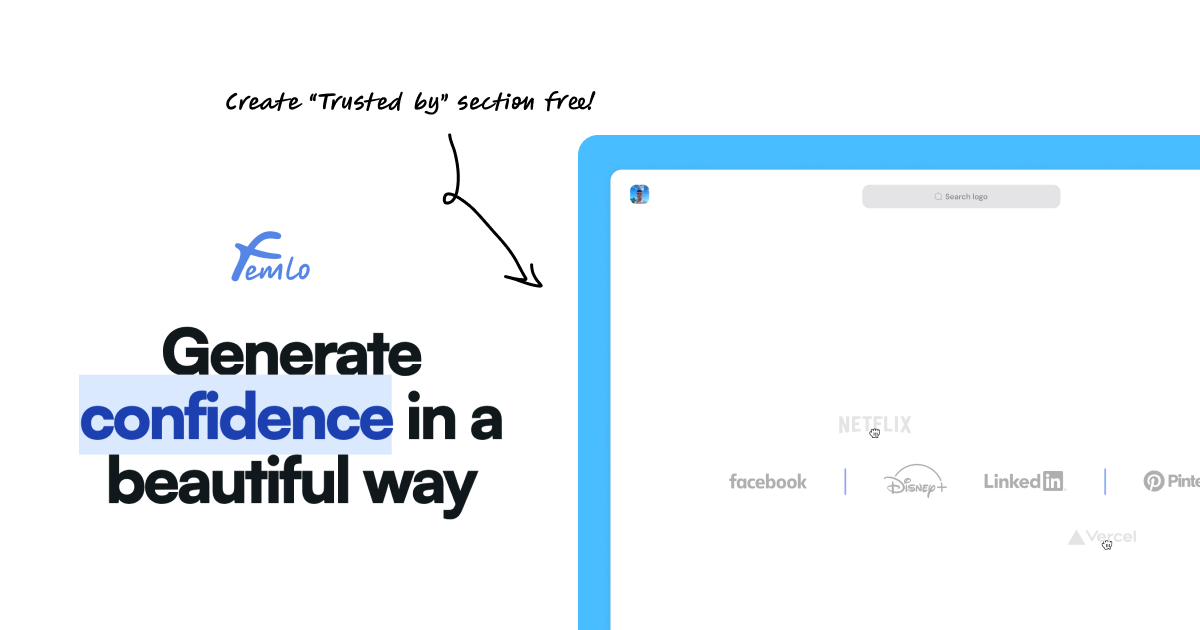
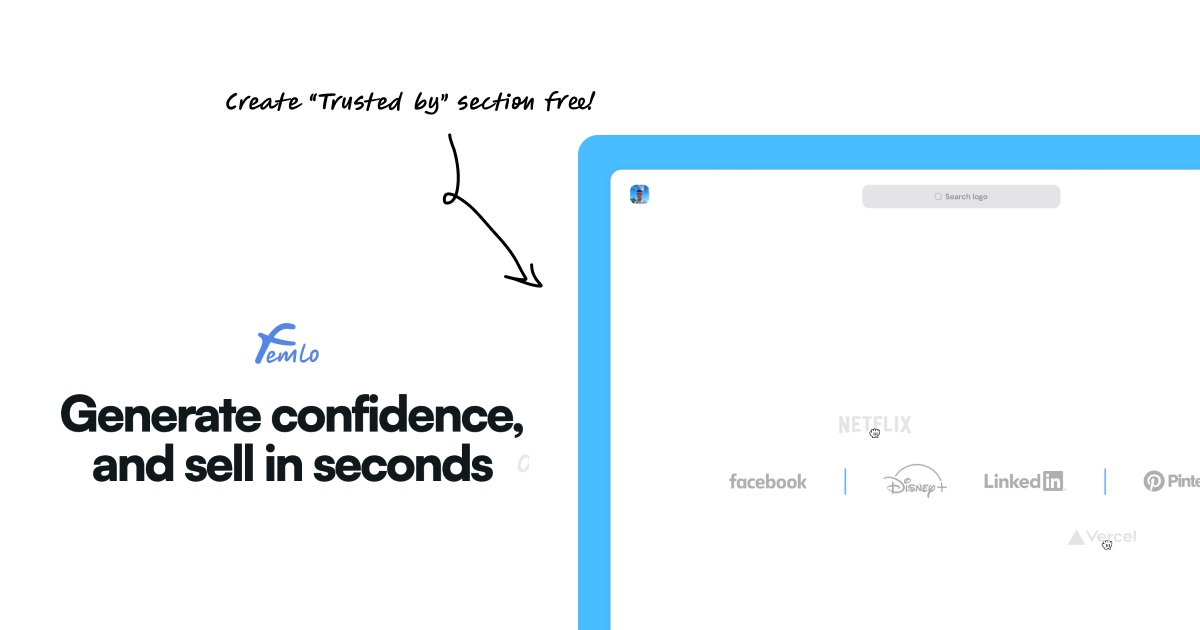
style: changing copy

Changed region(s): [[0.0308, 0.5127, 0.4317, 0.8444], [0.185, 0.3619, 0.2775, 0.4524]]

diff --git a/src/pages/_app.tsx b/src/pages/_app.tsx
@@ -54,32 +54,19 @@ const MyApp: AppType<{ session: Session | null }> = ({
       <Providers>
         <Head>
           <link rel="icon" href="/favicon.png" />
-          <title>Femlo - Generate confidence in a beautiful way</title>
+          <title>
+            Femlo - Generate confidence, Generate more sells in a beautiful way
+          </title>
 
-          {/* Open Graph meta tags */}
-          <meta property="og:type" content="website" />
-          <meta property="og:title" content="Femlo | Your Tagline Here" />
-          <meta
-            property="og:description"
-            content="Femlo is a platform that helps you..."
-          />
-          <meta property="og:url" content="https://www.femlo.cfd/" />
           <meta
             property="og:image"
-            content="https://res-console.cloudinary.com/dayloxa2a/media_explorer_thumbnails/892e915c3fe24a47c66af5b3f8a32da8/detailed"
+            content="https://res.cloudinary.com/dayloxa2a/image/upload/v1724163090/roynlbztxkqcwk9mvssr.png"
           />
           <meta property="og:image:alt" content="Femlo preview image" />
 
-          {/* Twitter Card meta tags */}
-          <meta name="twitter:card" content="summary_large_image" />
-          <meta name="twitter:title" content="Femlo | Your Tagline Here" />
-          <meta
-            name="twitter:description"
-            content="Femlo is a platform that helps you..."
-          />
           <meta
             name="twitter:image"
-            content="https://res-console.cloudinary.com/dayloxa2a/media_explorer_thumbnails/892e915c3fe24a47c66af5b3f8a32da8/detailed"
+            content="https://res.cloudinary.com/dayloxa2a/image/upload/v1724163090/roynlbztxkqcwk9mvssr.png"
           />
           <meta name="twitter:image:alt" content="Femlo preview image" />
         </Head>

diff --git a/src/pages/index.tsx b/src/pages/index.tsx
@@ -134,11 +134,11 @@ function Home() {
       <div className="flex h-[1000px] w-full flex-col items-center justify-start gap-[100px] overflow-hidden">
         <div className="mt-[50px] w-[600px]">
           <div className="flex flex-col items-center justify-center gap-8">
-            <h1 className="text-center">
-            Generate <span className="bg-blue-100 text-blue-800">confidence</span> in a beautiful way
+            <h1 className="text-center w-[800px]">
+            Generate confidence, <br />and sell in seconds
             </h1>
             <p className="text-center">
-            Create eye-catching “Trusted By” sections for your SaaS,
+            Create eye-catching “Trusted By” sections for your landing-page,
              build credibility and trust with your audience.
             </p>
             <div className="flex flex-col items-center gap-1">

diff --git a/src/components/nextui/ModalUI.tsx b/src/components/nextui/ModalUI.tsx
@@ -136,7 +136,7 @@ export default function ModalUI({ size, text }: ModalProps) {
                       the future, I invite you to{" "}
                       <span className="font-bold text-black">
                         join the waitlist
-                      </span>
+                      </span> by entering your email below.
                     </p>
                     <p className="text-sm text-neutral-700">
                       If you have any comments, feel free to DM me on X and I
